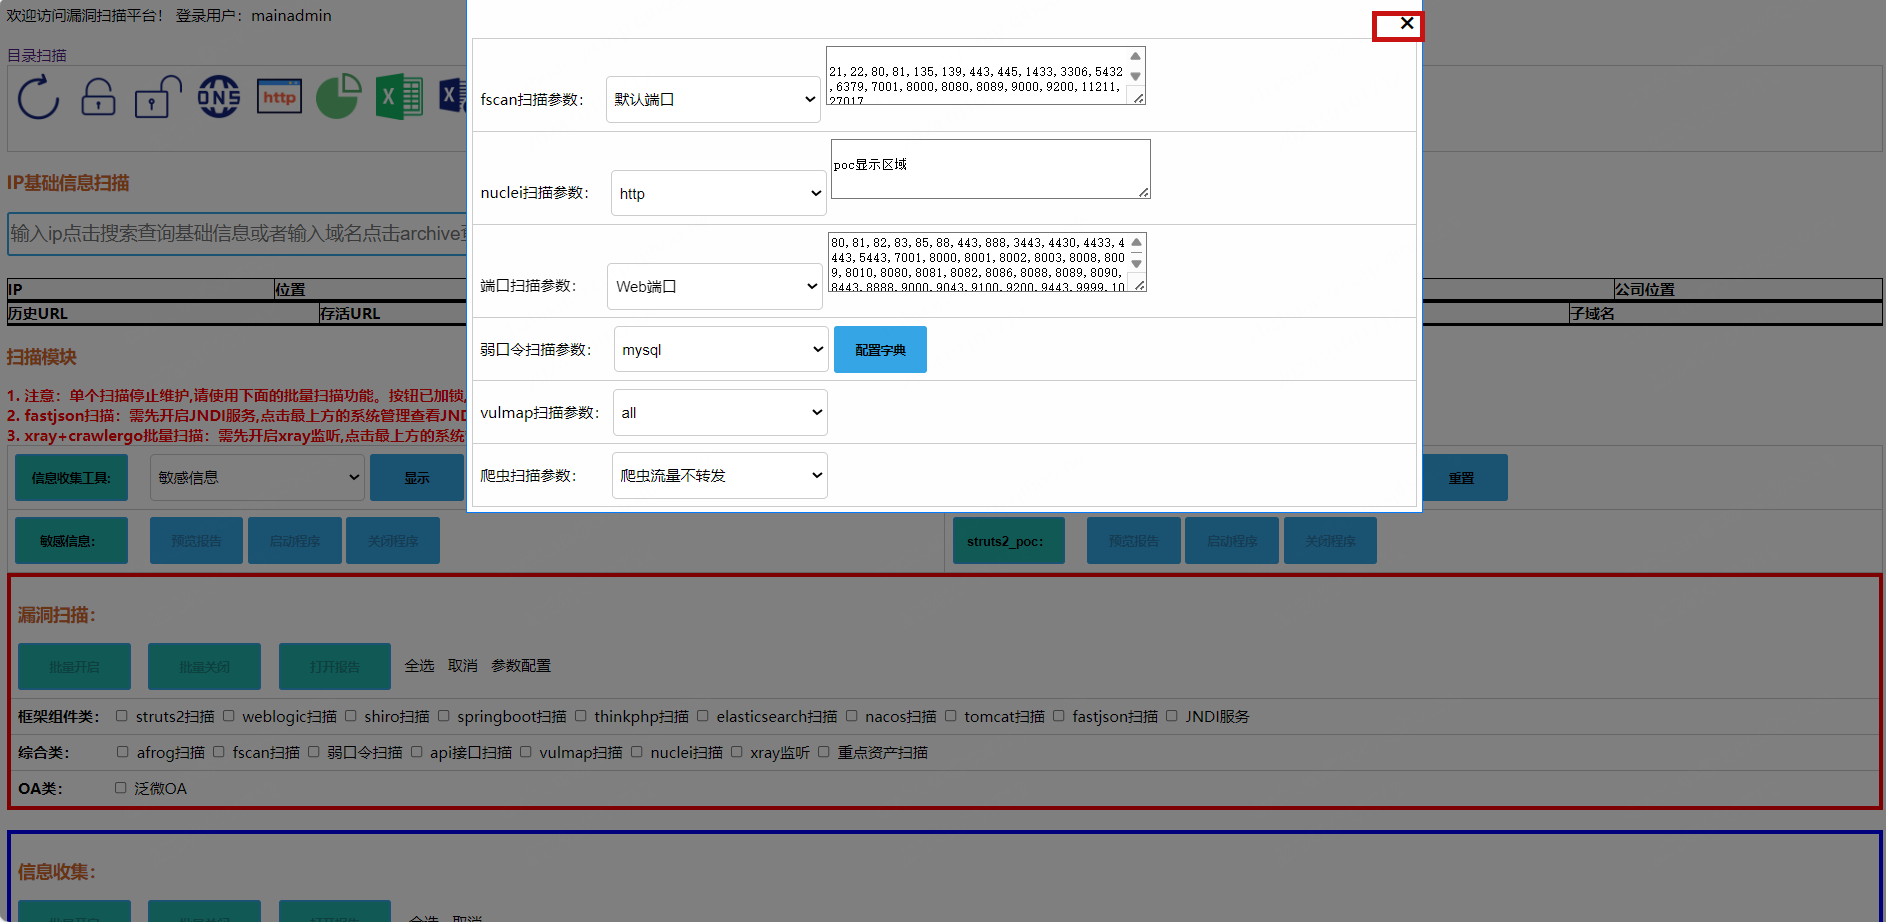
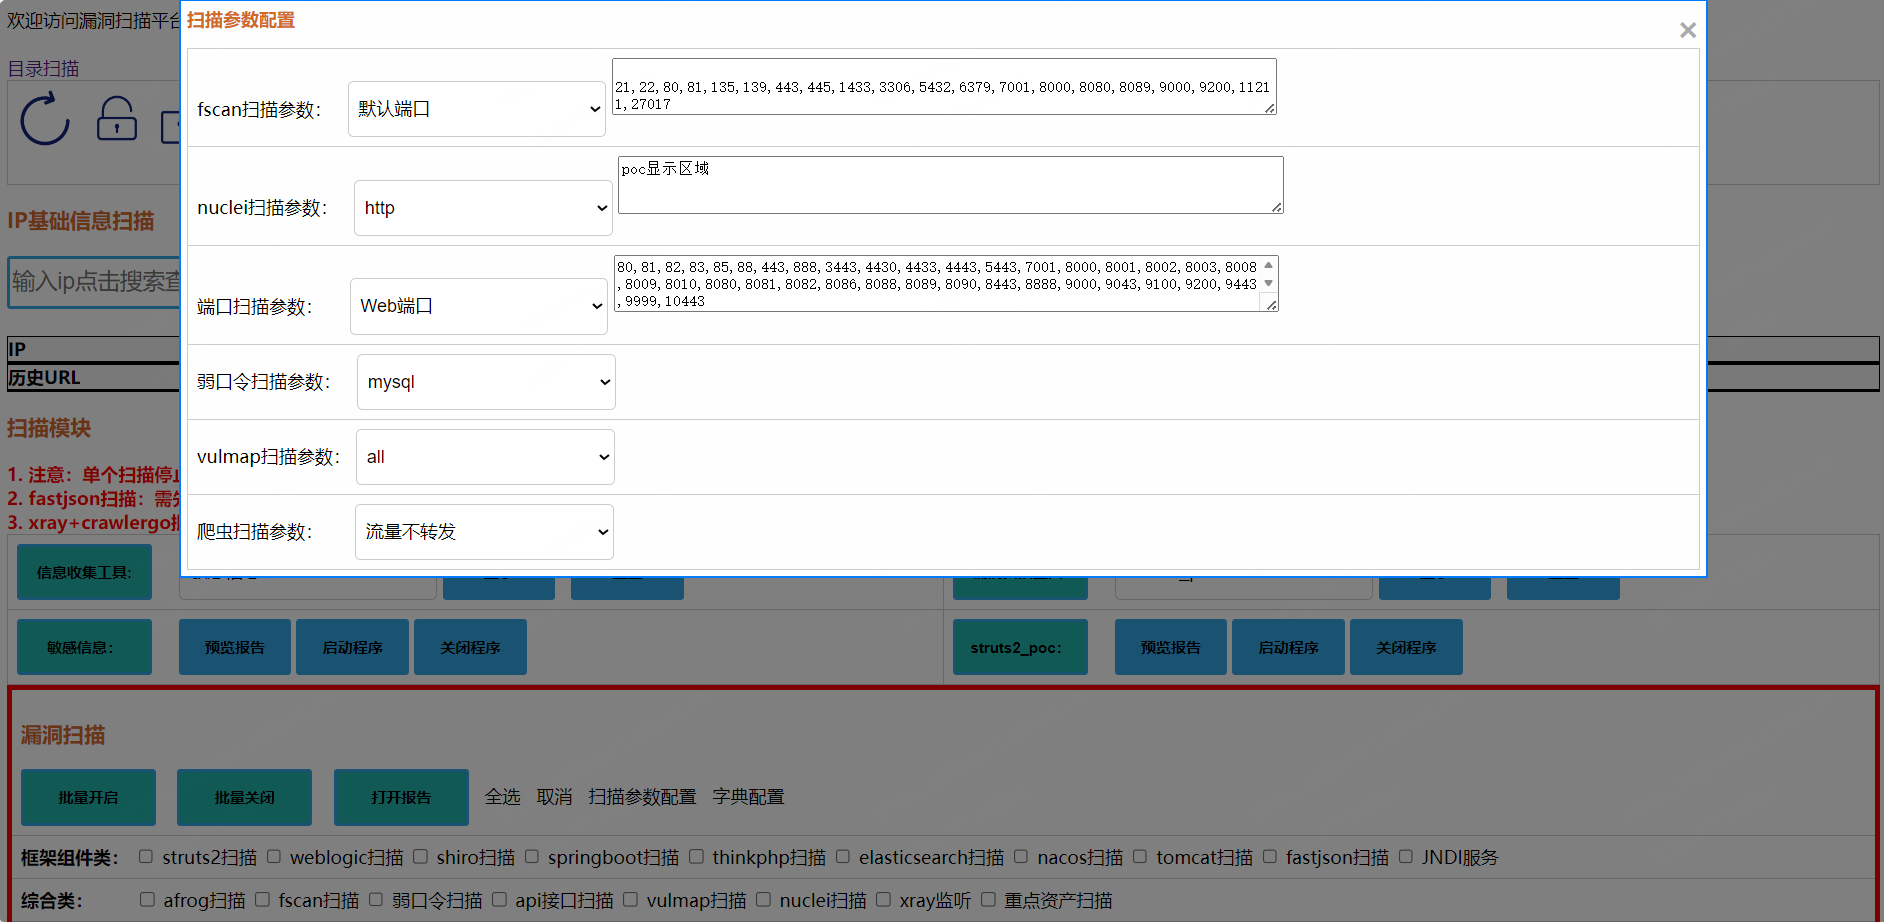
系统优化

diff --git a/static/js/common.js b/static/js/common.js
@@ -1,5 +1,5 @@
 // 上线后需替换为自己的服务器IP地址
-var ipvalue = "http://x.x.x.x"
+var ipvalue = "http://117.72.16.222"
 
 
 function fanhui() {
@@ -297,7 +297,7 @@ function startbutton() {
     button15.disabled = false;
     var button16 = document.getElementById("button16");
     button16.disabled = false;
-    
+
     var button18 = document.getElementById("button18");
     button18.disabled = false;
     var button19 = document.getElementById("button19");
@@ -450,7 +450,7 @@ function stopbutton() {
     button15.disabled = true;
     var button16 = document.getElementById("button16");
     button16.disabled = true;
-    
+
     var button18 = document.getElementById("button18");
     button18.disabled = true;
     var button19 = document.getElementById("button19");
@@ -1350,7 +1350,7 @@ window.addEventListener("beforeunload", function () {
 function closeModal() {
     var modal = document.getElementById("modal");
     modal.style.display = "none";
-   
+
 }
 
 
@@ -1367,6 +1367,12 @@ function fofayufa() {
 function closeModal1() {
     var modal1 = document.getElementById("modal1");
     modal1.style.display = "none";
+}
+
+// 关闭系统管理
+function closesystemanager() {
+    var modal = document.getElementById("modal");
+    modal.style.display = "none";
 }
 
 
@@ -1544,18 +1550,18 @@ function nuclei_poc_show_func() {
         success: function (info) {
 
             // 列表写入到textarea中
-             // 假设info.textvalue是一个数组  
-             var textAreaContent = ''; // 初始化一个空字符串来保存textarea的内容  
+            // 假设info.textvalue是一个数组  
+            var textAreaContent = ''; // 初始化一个空字符串来保存textarea的内容  
 
-             // 遍历info.textvalue数组，为每个元素添加换行符并追加到textAreaContent  
-             for (var i = 0; i < info.nuclei_poc_list_global.length; i++) {
-                 textAreaContent += info.nuclei_poc_list_global[i] + '\n'; // 追加元素和换行符  
-             }
- 
-             // 将textAreaContent的内容赋值给textarea  
-             $('#myTextarea3').val(textAreaContent); // 假设textarea的id是myTextarea  
+            // 遍历info.textvalue数组，为每个元素添加换行符并追加到textAreaContent  
+            for (var i = 0; i < info.nuclei_poc_list_global.length; i++) {
+                textAreaContent += info.nuclei_poc_list_global[i] + '\n'; // 追加元素和换行符  
+            }
+
+            // 将textAreaContent的内容赋值给textarea  
+            $('#myTextarea3').val(textAreaContent); // 假设textarea的id是myTextarea  
             //  document.getElementById("textareaspan1").innerHTML = info.textarea_num;
-             
+
             document.getElementById("nucleibyid2").innerHTML = info.nuclei_poc_list_len;
 
         },
@@ -3207,7 +3213,7 @@ function hydra_dict_submit_func() {
         url: '/hydradictconfig/',
         type: 'POST',
         contentType: 'application/json',
-        data: JSON.stringify({ line_mysqltextarea1: line_mysqltextarea1, line_mysqltextarea2:line_mysqltextarea2,line_sshtextarea1:line_sshtextarea1, line_sshtextarea2:line_sshtextarea2,line_ftptextarea1:line_ftptextarea1,line_ftptextarea2:line_ftptextarea2,line_redistextarea2:line_redistextarea2,line_mssqltextarea1:line_mssqltextarea1,line_mssqltextarea2:line_mssqltextarea2,line_tomcattextarea1:line_tomcattextarea1,line_tomcattextarea2:line_tomcattextarea2,line_nacostextarea1:line_nacostextarea1,line_nacostextarea2:line_nacostextarea2}),
+        data: JSON.stringify({ line_mysqltextarea1: line_mysqltextarea1, line_mysqltextarea2: line_mysqltextarea2, line_sshtextarea1: line_sshtextarea1, line_sshtextarea2: line_sshtextarea2, line_ftptextarea1: line_ftptextarea1, line_ftptextarea2: line_ftptextarea2, line_redistextarea2: line_redistextarea2, line_mssqltextarea1: line_mssqltextarea1, line_mssqltextarea2: line_mssqltextarea2, line_tomcattextarea1: line_tomcattextarea1, line_tomcattextarea2: line_tomcattextarea2, line_nacostextarea1: line_nacostextarea1, line_nacostextarea2: line_nacostextarea2 }),
         dataType: 'json',
         success: function (info) {
             alert(info.mysql_dict_result)
@@ -3223,14 +3229,70 @@ function hydra_dict_submit_func() {
 
 
 // 资产文本框鼠标悬停变大
-function textarea_onhover(){
+function textarea_onhover() {
     var textarea = document.getElementById('myTextarea');
     textarea.rows = 20;
     textarea.cols = 152;
 }
 // 资产文本框鼠标移出变小
-function textarea_onout(){
+function textarea_onout() {
     var textarea = document.getElementById('myTextarea');
     textarea.rows = 2;
     textarea.cols = 152;
+}
+
+// fscan参数配置鼠标悬停变大
+function fscantextarea_onhover() {
+    var myTextarea2 = document.getElementById('myTextarea2');
+    myTextarea2.rows = 15;
+    myTextarea2.cols = 80;
+}
+
+// fscan参数配置鼠标移出变小
+function fscantextarea_onout() {
+    var myTextarea2 = document.getElementById('myTextarea2');
+    myTextarea2.rows = 3;
+    myTextarea2.cols = 80;
+}
+
+
+// nuclei参数配置鼠标悬停变大
+function nucleitextarea_onhover() {
+    var myTextarea3 = document.getElementById('myTextarea3');
+    myTextarea3.rows = 15;
+    myTextarea3.cols = 80;
+}
+
+// nuclei参数配置鼠标移出变小
+function nucleitextarea_onout() {
+    var myTextarea3 = document.getElementById('myTextarea3');
+    myTextarea3.rows = 3;
+    myTextarea3.cols = 80;
+}
+
+// 端口扫描参数配置鼠标悬停变大
+function nmaptextarea_onhover() {
+    var myTextarea1 = document.getElementById('myTextarea1');
+    myTextarea1.rows = 15;
+    myTextarea1.cols = 80;
+}
+
+// 端口扫描参数配置鼠标移出变小
+function nmaptextarea_onout() {
+    var myTextarea1 = document.getElementById('myTextarea1');
+    myTextarea1.rows = 3;
+    myTextarea1.cols = 80;
+}
+
+
+// 爬虫扫描参数详情
+function crawlergo_part_show() {
+    var pachongselectpart = $('select[name="pachongselectpart"]').val();
+    if (pachongselectpart == 1) {
+        document.getElementById("crawlergo_part_show_part2").innerHTML = "";
+        document.getElementById("crawlergo_part_show_part1").innerHTML = "爬虫流量不转发给被动流量扫描器";
+    } else if (pachongselectpart == 2) {
+        document.getElementById("crawlergo_part_show_part1").innerHTML = "";
+        document.getElementById("crawlergo_part_show_part2").innerHTML = "爬虫流量已转发给xray,扫描前需先开启xray被动监听";
+    }
 }

diff --git a/templates/index.html b/templates/index.html
@@ -73,11 +73,13 @@
 	</table>
 
 	<div id="modal" class="modal">
+		
 		<div class="modal-content">
-			<a href="/index/" target="_blank" style="text-decoration: none;">跳转首页</a>
 			<h2 style="color: darkorange;" id="spp1h2"></h2>
 			<strong style="color:coral">全局视角</strong>
+			<span class="close" onclick="closesystemanager()">&times;</span>
 			<table border="1" style="width: 1500px; height: 100px;">
+			
 				<tr>
 					<th>名称</th>
 					<td>CPU</td>
@@ -420,8 +422,7 @@
 					<td><span id="failsp6" style="color: red;"></span></td>
 				</tr>
 			</table>
-			<img src="{{ url_for('static', filename='image/zhedie.png') }}" width="50" height="50"
-				style="cursor: pointer;" onclick="closeModal()">
+			
 		</div>
 	</div>
 
@@ -443,14 +444,17 @@
 	</div>
 
 	<!-- 扫描器参数配置 -->
+	
 	<div id="modal2" class="modal1">
 		<div class="modal-content1">
+			
+			<strong style="color: chocolate;">扫描参数配置</strong>
 			<span class="close" onclick="stopscanconfigpagefunc()">&times;</span>
 			<table border="1">
 				<tr>
 					<td>
 						fscan扫描参数：&nbsp;&nbsp;
-						<select name="fscanpartname" onmouseout="fscanportshowfunc()">
+						<select name="fscanpartname" onmouseout="fscanportshowfunc()" >
 
 							<option
 								value="21,22,80,81,135,139,443,445,1433,3306,5432,6379,7001,8000,8080,8089,9000,9200,11211,27017">
@@ -473,9 +477,9 @@
 								常见RCE端口</option>
 							<option value="21,22,53,80,443,445,1433,3306,3389,8080">精简端口</option>
 						</select>
-						<textarea rows="3" cols="30" style="width: 335px; height: 57px;" id="myTextarea2">
-							21,22,80,81,135,139,443,445,1433,3306,5432,6379,7001,8000,8080,8089,9000,9200,11211,27017
-							</textarea>
+						<textarea rows="3" cols="80"  id="myTextarea2" onmouseover="fscantextarea_onhover()"
+						onmouseout="fscantextarea_onout()">
+							21,22,80,81,135,139,443,445,1433,3306,5432,6379,7001,8000,8080,8089,9000,9200,11211,27017</textarea>
 					</td>
 				</tr>
 				<tr>
@@ -518,9 +522,9 @@
 							<option value="/root/nuclei-templates/config">config</option>
 							<option value="/root/nuclei-templates/code">code</option>
 						</select>
-						<textarea rows="3" cols="30" style="width: 335px; height: 57px;" id="myTextarea3">
-							poc显示区域
-							</textarea>
+						<textarea rows="3" cols="80"  id="myTextarea3" onmouseover="nucleitextarea_onhover()"
+						onmouseout="nucleitextarea_onout()">
+poc显示区域</textarea>
 						<br>
 						<span id="nucleibyid2" style="color: darksalmon;"></span>
 					</td>
@@ -544,7 +548,8 @@
 							<option value="21,22,53,80,443,445,1433,3306,3389,8080">精简端口</option>
 							<option value="1-65535">全端口</option>
 						</select>
-						<textarea rows="3" cols="30" style="width: 335px; height: 57px;" id="myTextarea1">
+						<textarea rows="3" cols="80" id="myTextarea1" onmouseover="nmaptextarea_onhover()"
+						onmouseout="nmaptextarea_onout()">
 80,81,82,83,85,88,443,888,3443,4430,4433,4443,5443,7001,8000,8001,8002,8003,8008,8009,8010,8080,8081,8082,8086,8088,8089,8090,8443,8888,9000,9043,9100,9200,9443,9999,10443
 </textarea>
 					</td>
@@ -559,7 +564,7 @@
 							<option value="4">redis</option>
 							<option value="5">mssql</option>
 						</select>
-						<input type="button" value="配置字典" onclick="hydradictfunc()">
+						
 					
 					</td>
 				</tr>
@@ -602,10 +607,12 @@
 				<tr>
 					<td>
 						爬虫扫描参数：&nbsp;&nbsp;&nbsp;&nbsp;&nbsp;
-						<select name="pachongselectpart">
-							<option value="1">爬虫流量不转发</option>
-							<option value="2">爬虫流量转发给xray</option>
+						<select name="pachongselectpart" onmouseout="crawlergo_part_show()">
+							<option value="1">流量不转发</option>
+							<option value="2">流量转发</option>
 						</select>
+						<span style="color: goldenrod;" id="crawlergo_part_show_part1"></span>
+						<span style="color: goldenrod;" id="crawlergo_part_show_part2"></span>
 					</td>
 				</tr>
 				
@@ -990,7 +997,7 @@
 				<table  style=" border: 5px solid red ; border-collapse: collapse;">
 				<tr>
 					<td colspan="2">
-						<h3>漏洞扫描：</h3>
+						<h3>漏洞扫描</h3>
 						<input type="submit" id="button72" value="批量开启" onclick="vulnxuanzhongscan()"
 							disabled>&nbsp;&nbsp;&nbsp;
 						<input type="submit" id="button76" value="批量关闭" onclick="vulnxuanzhongstopscanfunc()"
@@ -999,7 +1006,8 @@
 							disabled>&nbsp;&nbsp;
 						<span style="cursor: pointer;" onclick="vulnselectAll()">全选</span>&nbsp;&nbsp;
 						<span style="cursor: pointer;" onclick="vulnunSelection()">取消</span>&nbsp;&nbsp;
-						<span onclick="startscanconfigpagefunc()" style="cursor: pointer;">参数配置</span>
+						<span onclick="startscanconfigpagefunc()" style="cursor: pointer;">扫描参数配置</span>&nbsp;&nbsp;
+						<span onclick="hydradictfunc()" style="cursor: pointer;">字典配置</span>
 					</td>
 				</tr>
 				
@@ -1068,7 +1076,7 @@
 				<table style=" border: 5px solid blue ; border-collapse: collapse;">
 					<tr>
 						<td colspan="2">
-							<h3>信息收集：</h3>
+							<h3>信息收集</h3>
 							<input type="submit" id="button73" value="批量开启" onclick="infoxuanzhongscan()"
 								disabled>&nbsp;&nbsp;&nbsp;
 							<input type="submit" id="button75" value="批量关闭" onclick="infoxuanzhongstopscanfunc()"

diff --git a/static/css/common.css b/static/css/common.css
@@ -148,7 +148,7 @@
 
 			padding: 5px;  
 			border: 10px solid #888;  
-			width: 100%; /* 弹窗宽度可以根据需要调整 */  
+			width: 80%; /* 弹窗宽度可以根据需要调整 */  
 			border: 5px solid #007BFF; /* 设置边框宽度为2px，样式为实线，颜色为蓝色 */ 
 		}  
 		  
@@ -188,7 +188,7 @@
 			margin: 0% auto; /* 垂直居中，水平居中  */
 			padding: 5px;  
 			border: 10px solid #888;  
-			width: 50%; /* 弹窗宽度可以根据需要调整 */  
+			width: 80%; /* 弹窗宽度可以根据需要调整 */  
 			border: 2px solid #007BFF; /* 设置边框宽度为2px，样式为实线，颜色为蓝色 */ 
 		}  
 
